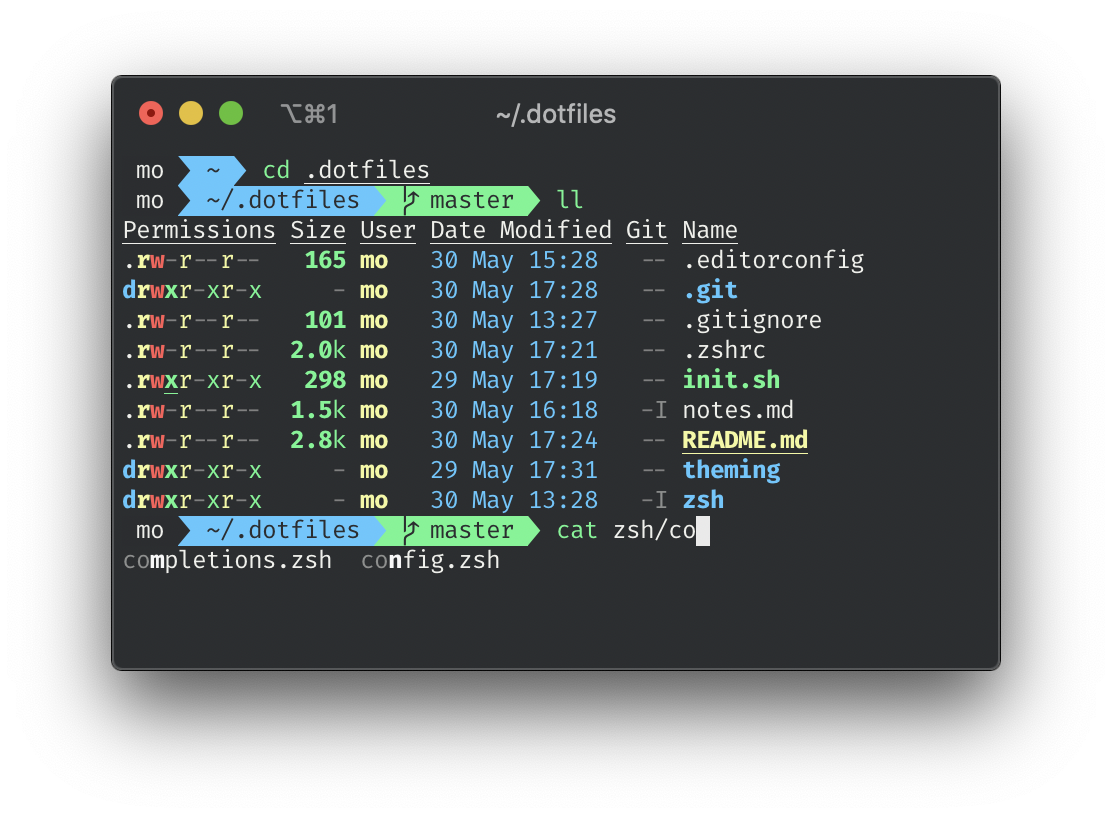
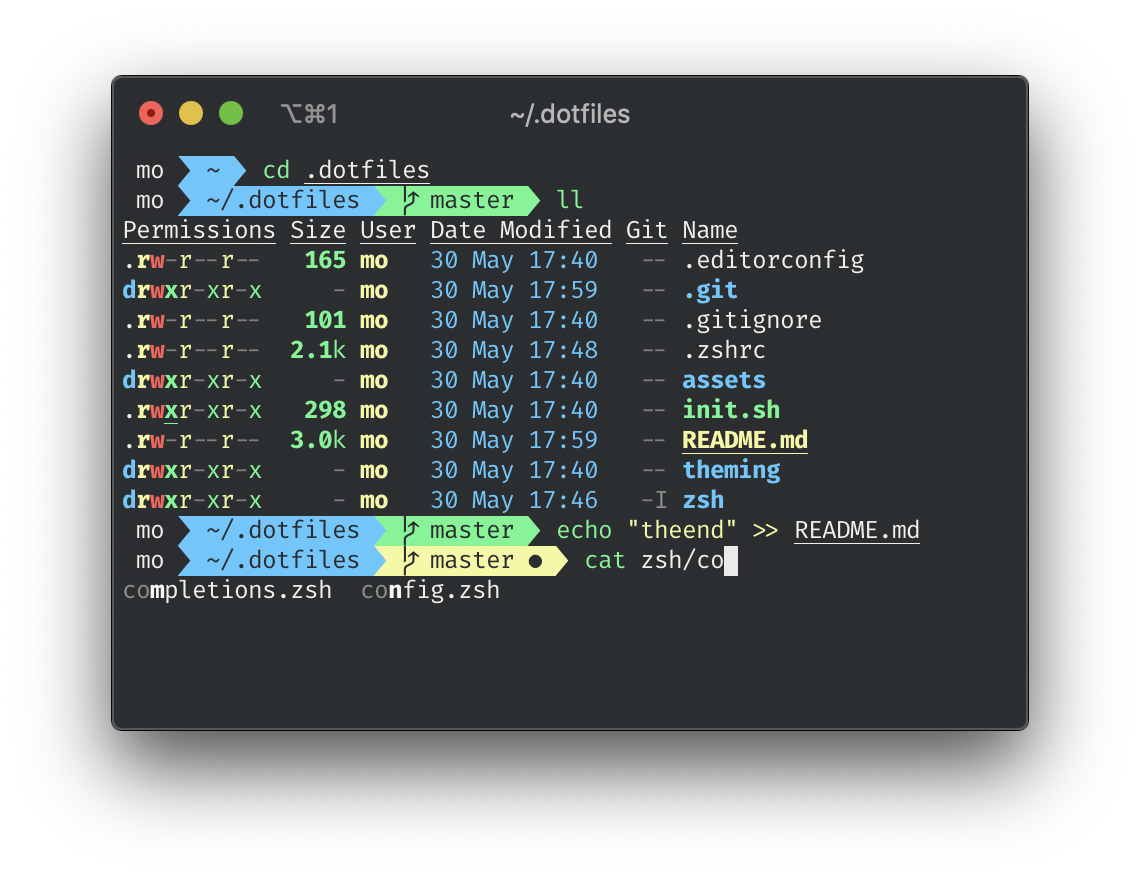
update screenshot with git prompt

Changed region(s): [[0.0917, 0.0611, 0.9173, 0.8557]]

diff --git a/README.md b/README.md
@@ -46,5 +46,5 @@ Backup your existing configuration. The following steps assume a bare environmen
 - build prompt and completions for `punch`
 - more init.sh stuff: `brew install...`.
 - fix differently rendered colors in vscode terminal
-- fix git dirty color - always (sometimes?) stays green where it should be yellow/red
+- improve git dirty color - signal that files can be staged
 - better define tool requirements: istioctl, kubectl, exa, bat, ...
